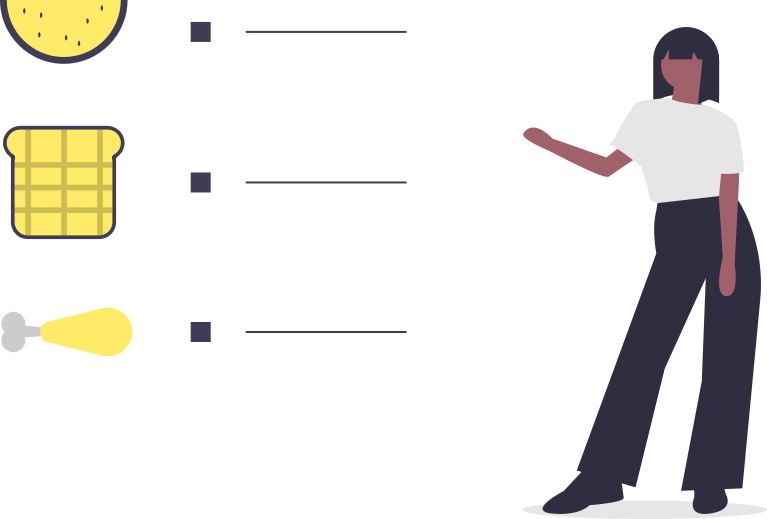
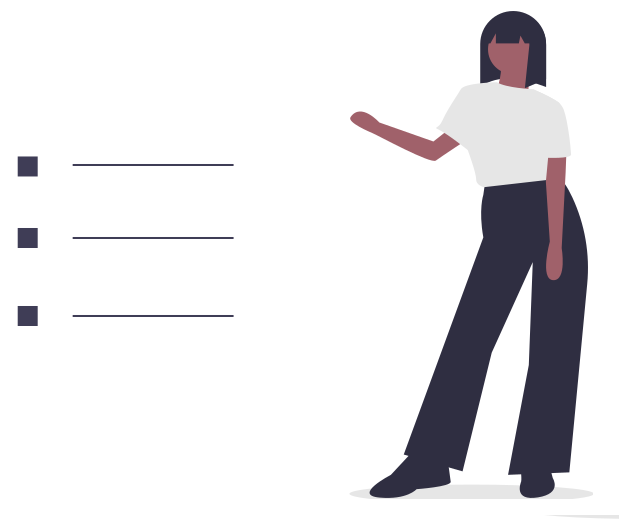
Feat(OffertTabs): Changed photo at offert page and added breakpoint miw-width:1300px to the tabs.

diff --git a/src/components/OffertTabs/OffertTabs.js b/src/components/OffertTabs/OffertTabs.js
@@ -72,11 +72,11 @@ const OffertTabs = () => {
                   <li>Treningi online – 70 zł</li>
               </ul>
           </li>
-        </ul>  
+        </ul> 
       </div>
     </TabPanel>
     <TabPanel>
-      <div className="offert__container">
+      <div className="offert__container offert__container--reverse">
         <Img
             fixed={data.diet.childImageSharp.fixed}
             className="offert__tab-photo"
@@ -101,11 +101,13 @@ const OffertTabs = () => {
             fixed={data.package.childImageSharp.fixed}
             className="offert__tab-photo"
         />
-        <p className="ofert__paragraph">Jeśli należysz do osób, które chcą osiągnąć spodziewane rezultaty jak najszybciej, a do tego zaoszczędzić, to warto zastanowić się nad tym pakietem </p>
-        <h3 className="offert__item-topic">Współpraca dietetyczna (1 miesiąc) + plan treningowy – 300zł</h3> 
-        <p>Każdy trening trwa pełną godzinę, w przypadku spóźnienia, przy braku możliwości przesunięcia sesji treningowej w czasie, 
-          może nastąpić skrócenie treningu. W przypadku zakupu pakietu treningów, nie 
-        </p>
+        <div className="tab__package-content">
+          <p className="ofert__paragraph">Jeśli należysz do osób, które chcą osiągnąć spodziewane rezultaty jak najszybciej, a do tego zaoszczędzić, to warto zastanowić się nad tym pakietem </p>
+          <h3 className="offert__item-topic">Współpraca dietetyczna (1 miesiąc) + plan treningowy – 300zł</h3> 
+          <p>Każdy trening trwa pełną godzinę, w przypadku spóźnienia, przy braku możliwości przesunięcia sesji treningowej w czasie, 
+            może nastąpić skrócenie treningu. W przypadku zakupu pakietu treningów, nie 
+          </p>
+        </div>
       </div>
     </TabPanel>
   </Tabs>

diff --git a/src/components/OffertTabs/OffertTabs.scss b/src/components/OffertTabs/OffertTabs.scss
@@ -25,10 +25,10 @@
     color: $blue; 
 }
 .ofert__paragraph {
-    margin-top: 100px;
+    font-size:1.2rem;
 }
 .react-tabs__tab {
-    padding: 15px 30px;
+    padding: 10px 20px;
     border: 1px solid $black;
     cursor: pointer;
 }
@@ -48,3 +48,21 @@
     color: $white !important;
     transition: all 0.7s ease-in-out;
 }
+
+
+@media screen and (min-width: 1300px) {
+    .offert__main-list {
+        width: 50%
+    }
+    .offert__container {
+        flex-direction: row;
+        justify-content: space-around;
+    }
+    .offert__container--reverse {
+        flex-direction: row-reverse;
+    }
+    .tab__package-content {
+        width: 50%
+    }
+}
+

diff --git a/src/components/AboutMe/AboutMe.js b/src/components/AboutMe/AboutMe.js
@@ -50,9 +50,9 @@ const AboutMe = () => {
                 fixed={data.myImage.childImageSharp.fixed}
                 className="my-photo"
             />
-            <h1 className="hello">Siemka!</h1>
+            <h1 className="about-me__hello">Siemka!</h1>
             <div className="about-me__description">
-                <p>Skoro już tu jesteś, to przeczytaj parę słów o mnie!</p>
+                <p className="about-me__hero-title">Skoro już tu jesteś, to przeczytaj parę słów o mnie!</p>
 
                 <div className="about-me__container">
                     <div className="about-me__description_paraghraph">

diff --git a/src/components/AboutMe/AboutMe.scss b/src/components/AboutMe/AboutMe.scss
@@ -13,10 +13,13 @@
         margin-top: 60px;
         border-radius: 50%;
     }
-    .hello {
+    .about-me__hello {
         color: $blue;
         font-weight: 300;
         font-size: 2.7rem;
+    }
+    .about-me__hero-title {
+        font-size: 1.5rem;
     }
     .my-chest, .my-biceps {
         margin: 30px 0px;
